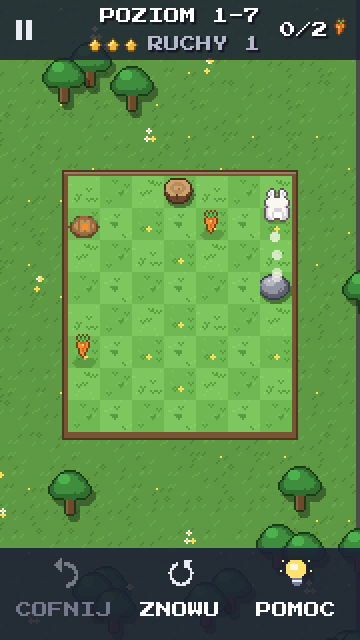
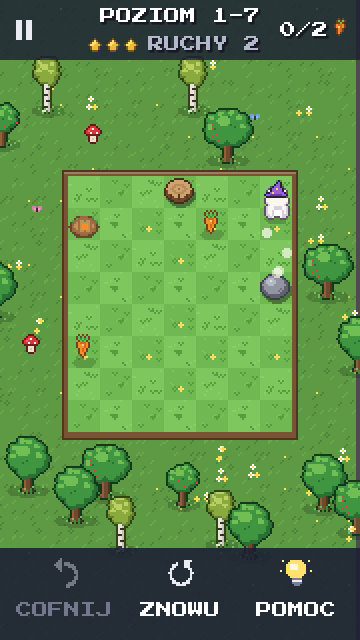
Hoplow: fresh screenshots (new trees, the dressed-up bunny, tap arrows, wardrobe)
Claude-Session: https://claude.ai/code/session_01Xx1yimGbFqiiTqAYzSa7ec

diff --git a/src/data/site.ts b/src/data/site.ts
@@ -22,7 +22,7 @@ export interface Game {
 export const GAMES: Game[] = [
   {
     id: "hoplow", name: "Hoplow", accent: "#FF9E40", status: "dev",
-    shots: ["2_run", "3_fox", "6_tunnel", "5_win", "7_levels"], shotLangs: ["en", "pl"], videoLangs: ["en", "pl"],
+    shots: ["2_run", "3_fox", "8_wardrobe", "6_tunnel", "5_win"], shotLangs: ["en", "pl"], videoLangs: ["en", "pl"],
     tag: { en: "Swipe the bunny home! Cozy sliding puzzles, carrots, foxes and hats to collect.",
            pl: "Przesuń królika do nory! Przytulne łamigłówki, marchewki, lisy i czapeczki." },
     lead: { en: "Swipe and the bunny runs until something stops it – a rock, a bush, the edge of the field. Pick up every carrot, then dive into the burrow.",

diff --git a/tools/sync_assets.py b/tools/sync_assets.py
@@ -21,7 +21,7 @@ PUB = ROOT / "public"
 
 # game -> store screenshots shown on its page (store/screenshots/<lang>/<name>.png, en at the top)
 SHOTS = {
-    "hoplow": ["2_run", "3_fox", "6_tunnel", "5_win", "7_levels"],
+    "hoplow": ["2_run", "3_fox", "8_wardrobe", "6_tunnel", "5_win"],
     "inchway": ["2_drive", "6_emergency", "7_winter", "9_city", "10_garage"],
     "brick-tanks": ["2_battle", "6_boss", "4_winter", "5_night", "8_hangar"],
 }
